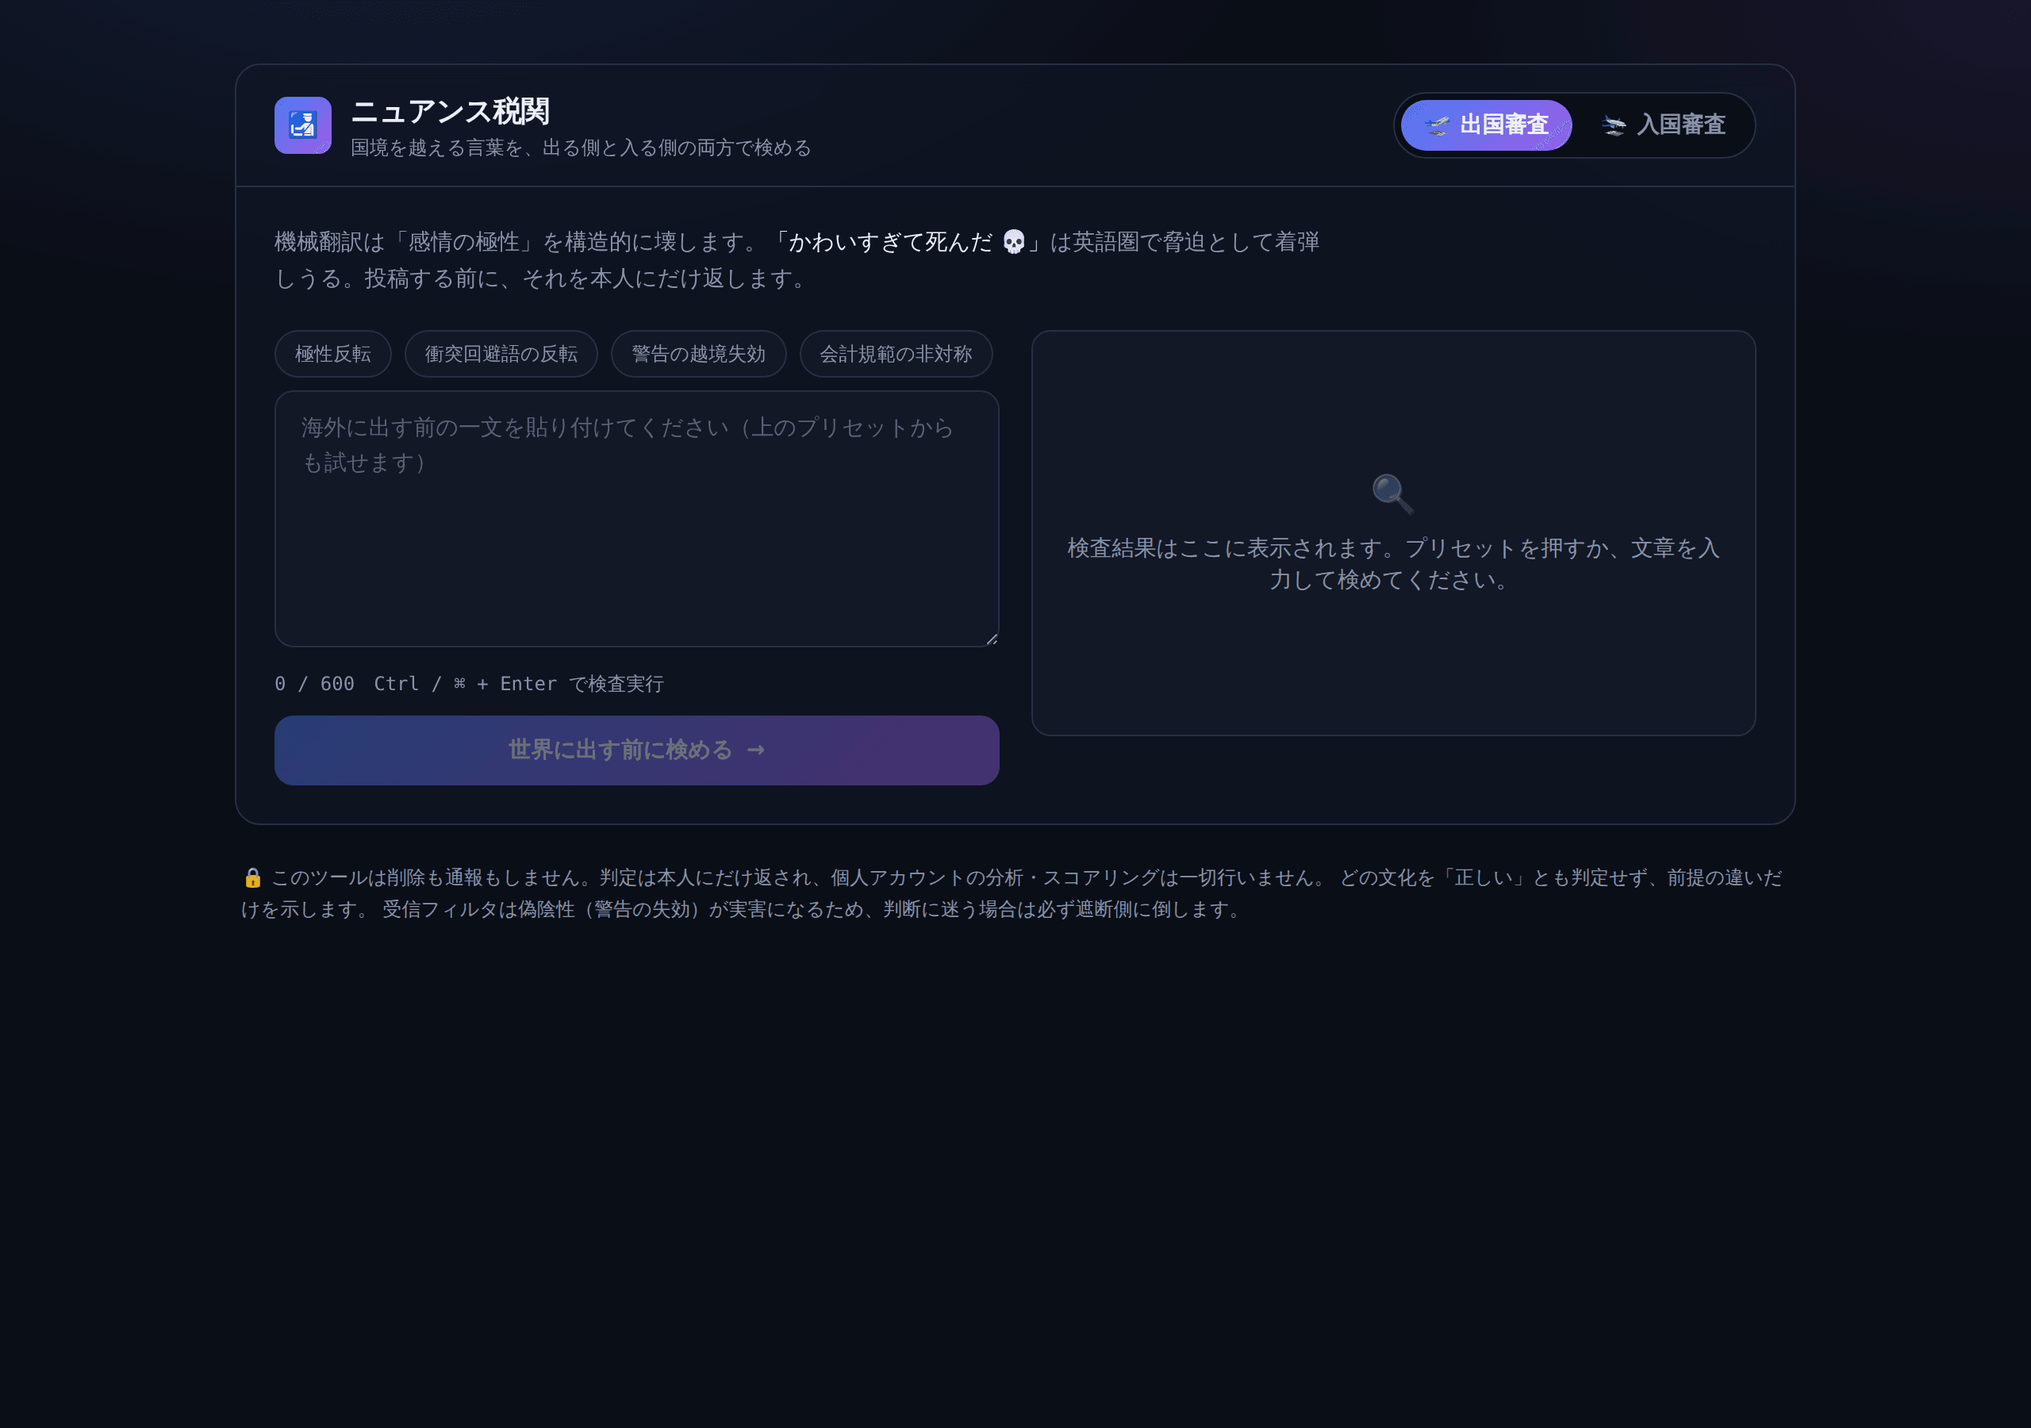
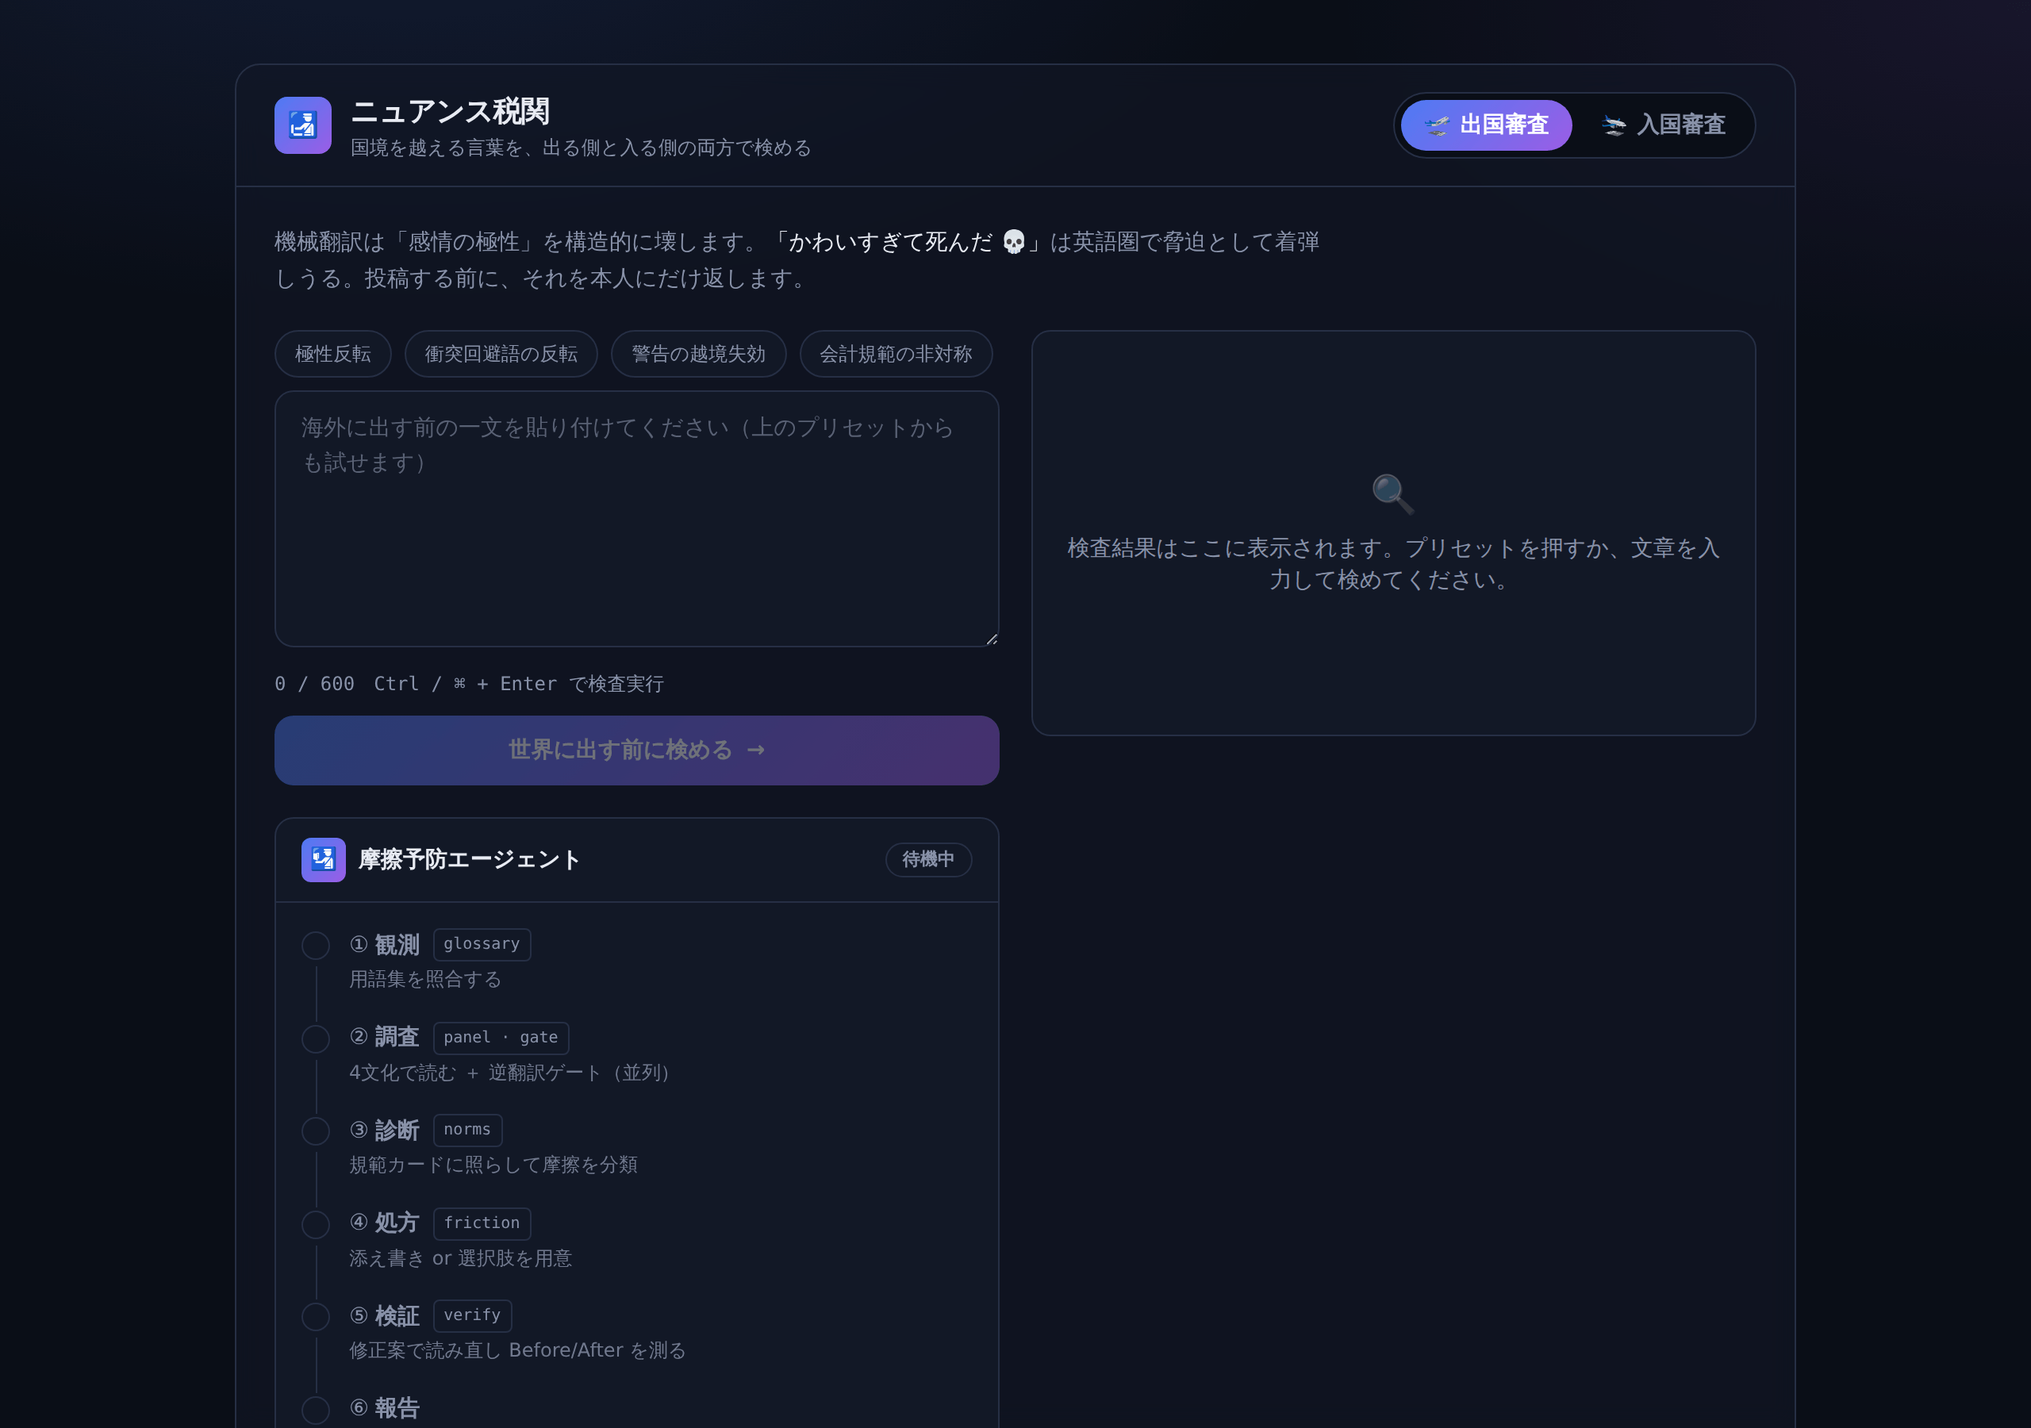
文書：摩擦予防エージェントと、慣習・価値観の摩擦を防ぐ仕組みを説明する
- README: エージェントの6手順、言い方のずれと線引きのずれで防ぎ方が違うこと、設計方針
  （手順の計画は決定的なルール、LLMは部品。助言まで。ループは有界）、検証の読み方を追記。
  構成とテストの一覧、検証状況の表を更新
- docs/THEME.md: 「慣習や価値観の違いが引き起こす摩擦を防止する仕組みへ」の節を追加。
  判定から防ぐ仕組みへ、慣習と価値観で防ぎ方が違うこと、C5「制動」の具体化。
  他の領域（越境EC・インバウンド接客・多文化チーム）への展望は**未実装**と明記し、
  未着手の作業（規範カードの作成とレビュー・分類の見直し・評価データ）を列挙
- .env.example: NUANCE_MODEL_VERIFY と NUANCE_AGENT_VERIFY（コストと遅延の調整）
- docs/screenshots: エージェントの待機・実行中・完了・人への引き渡し・モバイルを追加し、
  既存の画像も撮り直した。グラデーションの縞が出ないよう減色の品質を上げて最適化（合計1.9MB）

過大評価を避けるため、デモ再生は事前に用意した結果で実測ではないこと、検証は同じ検証モデルによる
AI自己検証で人手の検証ではないこと、実モデルでの動作は未検証であることを明記した。

Claude-Session: https://claude.ai/code/session_01D9u8jXMLtdE9s8p8h6Yb9Y

diff --git a/README.md b/README.md
@@ -33,6 +33,60 @@
 **JP同人圏は 8（緑）、EN AO3圏は 88（赤）**。レーダーが一方向に伸びる。
 同じ熱量表現が、受信側の規範によって自傷・危機のサインとして着弾する。
 
+### 摩擦予防エージェント — 判定の下で、エージェントが作業する
+
+![摩擦予防エージェントの完了画面](./docs/screenshots/09-agent-done.png)
+
+出国審査の入力欄の下では、**摩擦予防エージェント**が6つの手順で作業する様子が見える。
+待機中は手順がそのまま製品の説明になり、実行中は実際の呼び出しの進行に合わせて点灯し、
+完了すると Before→After と、人に委ねた判断が並ぶ。
+
+| 手順 | 何をするか |
+|---|---|
+| ① 観測 | 用語集を照合する |
+| ② 調査 | 4文化で読む ＋ 逆翻訳ゲート（**並列**。2本のレーンが進む） |
+| ③ 診断 | 根拠にした規範カードから、摩擦の種類を導く |
+| ④ 処方 | 添え書き、または選択肢を用意する |
+| ⑤ 検証 | 修正案を**別ベンダーのモデル**で読み直し、Before→After を測る |
+| ⑥ 報告 | 線引きのずれは自動で決めず、**人の判断待ちで止まる** |
+
+**摩擦には2種類あり、防ぎ方が違う。**
+
+| | 言い方のずれ（慣習） | 線引きのずれ（価値観） |
+|---|---|---|
+| 例 | 「死んだ」「解釈違い」「地雷」、敬称、語尾、CWの書き方 | 公式への接触、集金・会計、年齢描写、政治・歴史 |
+| 基準 | 語や表記を直せば消える | 行為や題材を変えない限り残る |
+| 防ぎ方 | **添え書き**で橋渡し（原文は変えない＝熱量を落とさない） | 橋渡しできない。**発信者が選ぶ** |
+
+どちらが正しいかは判定しない。選択肢を見えるようにするだけで、決めるのは本人。
+分類は48項目の規範カード（[`lib/norms.ts`](./lib/norms.ts)）に静的に付けてあり、
+**LLMには分類させない**（モデルが返すのは根拠にした規範の番号だけ）。作者の整理で主観が入るため、
+本文と同じ場所に置いて見直せる形にしてある。
+
+![線引きのずれ：人の判断待ちで停止](./docs/screenshots/10-agent-handoff.png)
+
+**エージェントの設計方針（正直な位置づけ）**
+
+- 手順の計画は**決定的なルール**で、LLMは「読む・直す・検証する」部品として使う。
+  LLMが次のツールを自由に選ぶ方式は採っていない（Vercel Hobby の60秒制限、キー無しでは検証できない、
+  「失敗しても安全と言わない」不変条件を保証しにくい、コストが非有界になる）。
+  同じツール群をOpenRouterのtool callingに渡す形が将来の拡張経路（未実装）。
+- 自律性は、何を検証するか・時間切れで省くか・人に渡して止まるかの判断と、**修正案を自分で読み直す自己検証ループ**にある。
+  判断ルールは純関数（[`lib/agent/policy.ts`](./lib/agent/policy.ts)）で、キー無しでテストできる。
+- **エージェントは助言まで**。投稿・削除・通報はしない。添え書きや言い換え案は入力欄へ反映するだけで、
+  再検査は人が押す（人が承認するループ）。
+- ループは有界：検証は上位2文化まで、経過35秒を超えたら始めない、1文化あたり18秒で打ち切る。
+
+**検証の読み方（過大評価を避けるための注意）**
+
+- Before も After も**同じ検証モデル**が読んだ値で、メインの判定（panel）の値ではない。
+  モデルが違うと採点の癖が違い、panel の値と比べると「修正の効果」ではなく「モデルの癖の差」を測ってしまうため。
+- 検証が失敗・時間切れ・無効のときは After を出さず「**未検証**」と報告する（改善を主張しない）。
+  下がらなかった場合も隠さず、そのまま書く。
+- これは**AIによる自己検証**で、人手の検証ではない。
+- デモ再生（APIキー無し）は事前に用意した結果の再生で、実行していない。所要時間・ツール回数は出さず、
+  Before/After は手書きの値で実測ではない、と画面に明記している。
+
 ### 入国審査 — 1対1の対応表では機能しない
 
 ![入国審査のタグ写像](./docs/screenshots/04-filter-result.png)
@@ -199,7 +253,10 @@ cp .env.example .env.local   # OPENROUTER_API_KEY を設定
 |---|---|
 | 文字列一致ベースラインが大半を取りこぼす | **実測済み**（`npm run eval`） |
 | 辞書ベースでは手がかりがゼロのケースがある | **実測済み**（同上） |
-| フェイルセーフ（安全側の既定値）が機能する | **テスト済み**（`npm test` 14件） |
+| フェイルセーフ（安全側の既定値）が機能する | **テスト済み**（`npm test` 100件。重要な不変条件は、わざとバグを入れて落ちることを確認済み） |
+| エージェントの判断（時間切れ・検証失敗で改善を主張しない／線引きで人に渡す） | **テスト済み**（偽の deps で、キー無しで検証） |
+| 実モデルが規範の番号と添え書きを妥当に返す | **未検証**（キー設定後 `npm run eval:live` の「根拠の的中率」で測る） |
+| 別ベンダーの検証モデルの品質・60秒に収まるか | **未検証**（キー設定後に実測が必要） |
 | 実モデルがベースラインを上回る | **未計測**（キー設定後 `npm run eval:live` で1コマンド） |
 | 実運用のファンに効果がある | **未検証**（ユーザーテスト未実施） |
 
@@ -227,6 +284,16 @@ app/
   page.tsx             タブの外枠（出国審査 / 入国審査）
   api/check/route.ts   出国審査API（キーの有無で live/demo を切り替え）
   api/filter/route.ts  入国審査API
+components/agent/      エージェントのコンソール（手順ノード・Before→After・人への引き渡し）
+lib/agent/
+  policy.ts            判断ルール（検証対象・時間予算・人への引き渡し）。純関数
+  run.ts               エージェント本体。deps を注入するので、キー無しで判断をテストできる
+  reducer.ts           画面状態（イベントの畳み込み）。純関数
+  ndjson.ts            ストリームの読み書き（チャンク境界で行が割れても読める）
+  demo.ts              デモ再生（APIキー無し。事前に用意した結果）
+  live.ts              本番の配線（LLM 呼び出し）
+app/api/agent/         NDJSON で進捗を流すAPI（/api/check は eval とフォールバック用に残す）
+lib/friction.ts        摩擦の分類（根拠の規範番号の検証・種別の導出・添え書きの正規化）。純関数
 eval/
   cases.check.ts       出国審査のゴールドセット20件（対照群4件を含む）
   cases.filter.ts      入国審査のゴールドセット8件
@@ -234,7 +301,11 @@ eval/
   score.ts             採点ロジック（純関数）
   run.ts               評価ランナー（npm run eval / eval:live）
 tests/
-  safety.test.ts       決定的ロジックのユニットテスト14件（APIキー不要）
+  safety.test.ts       フェイルセーフ・サニタイザ・レート制限など（APIキー不要）
+  friction.test.ts     摩擦の分類。規範の番号がずれたら落ちるアンカーテストを含む
+  agent.test.ts        エージェントの判断・NDJSON・reducer（偽の deps で、LLM を呼ばない）
+  agent-demo.test.ts   デモの手書きデータが、判断ルールと規範本文に整合していること
+  eval-score.test.ts   評価の採点ロジック（根拠の的中は合否を変えない）
 scripts/
   screenshot.mjs       UIスクショの撮影（npm run shots）。手撮りだと解像度と手順がぶれるため固定
 docs/

diff --git a/docs/THEME.md b/docs/THEME.md
@@ -108,7 +108,56 @@ C5「制動」を強化するツールは、設計を誤ると容易に検閲装
 
 ---
 
-## 5. 2つのゲートを通った唯一の領域
+## 5. 慣習と価値観の摩擦を防ぐ仕組みへ
+
+レビューで「将来は、慣習や価値観の違いが引き起こす摩擦を防止する仕組みに発展しうる」と指摘された。
+その最初の形を、出国審査の入力欄の下（**摩擦予防エージェント**）に実装した。
+
+### 判定から「防ぐ仕組み」へ
+
+これまでの判定は「危ない」と言うだけで、**なぜ擦れるのか、どう防ぐのか**を言えていなかった。
+エージェントは判定を、次の流れに分解する。
+
+```
+なぜ擦れるか   → 根拠にした規範カード（どの慣習・価値観が衝突したか）
+どんな擦れか   → 言い方のずれ ／ 線引きのずれ
+どう防ぐか     → 添え書き（橋渡し）／ 選択肢（人が選ぶ）→ 修正案を自分で読み直して検証
+```
+
+### 慣習と価値観では、防ぎ方が違う
+
+| | 言い方のずれ（慣習） | 線引きのずれ（価値観） |
+|---|---|---|
+| 中身 | 語・表記・語尾・敬称・警告の書き方 | 行為・題材そのものの線引き |
+| 基準 | 語や表記を直せば消える | 行為や題材を変えない限り残る |
+| 防ぎ方 | 原文を変えずに**添え書き**で橋渡し | 橋渡しできない。**発信者が選ぶ** |
+| エージェントの振る舞い | 添え書きを提案し、検証する | 自動で決めず、人の判断待ちで止まる |
+
+この区別が、テーマの「**無血**」に対する具体的な答えになっている。
+誤訳による有血化（言い方のずれ）は、添え書きで防げる。
+一方で価値観の線引きは、機械が決めてよいものではない。**選択肢を見えるようにして、決めるのは本人に返す**。
+どちらが正しいかは判定しない。
+
+### C5「制動」の具体化
+
+[動員の5条件](./ideas/agents/05-nonviolent-mobilization.md)のうち、国境で壊れるのは C4 橋と C5 制動だった。
+C5 は「自分の行為が加害だと認識できる限りにおいて」機能するブレーキである。
+エージェントは、**見えない加害を、発信前に認識できる形にする**ことで、ブレーキを踏めるようにする。
+動員を起こすのではなく、動員の前提条件を整えるインフラに徹する立場は変わらない。
+
+### 他の領域への展望（未実装）
+
+構造は「規範カード → 摩擦の種類 → 防ぎ方」で、規範カードを差し替えれば、
+越境ECの商習慣、インバウンド接客、多文化チームのコミュニケーションにも広げられる**可能性がある**。
+ただし以下は未着手で、この展望の根拠はまだ設計上のものに留まる。
+
+- 各領域の規範カードの作成と、当事者・専門家によるレビュー（競争力の実体は、このカードという知識資産）
+- 「言い方／線引き」の分類の見直し。現状の48項目の分類は作者の整理で、主観が入る
+- 各領域での評価データ
+
+---
+
+## 6. 2つのゲートを通った唯一の領域
 
 [選定過程](./ideas/README.md)では、評価軸を5回改訂し、最後に2つのゲートを課した。
 
@@ -147,7 +196,7 @@ C5「制動」を強化するツールは、設計を誤ると容易に検閲装
 
 ---
 
-## 6. 主張の検証状況
+## 7. 主張の検証状況
 
 誠実に区別しておく。
 
@@ -155,9 +204,14 @@ C5「制動」を強化するツールは、設計を誤ると容易に検閲装
 |---|---|
 | 文字列一致ベースラインが大半を取りこぼす | **実測済み**（`npm run eval`、APIキー不要で再現可能） |
 | 辞書ベースでは手がかりがゼロになるケースがある | **実測済み**（同上） |
-| 安全側フェイルセーフが機能する | **テスト済み**（`npm test`、14件） |
+| 安全側フェイルセーフが機能する | **テスト済み**（`npm test`、100件） |
+| エージェントの判断（時間切れ・検証失敗で改善を主張しない／線引きで人に渡す） | **テスト済み**（偽の deps で、キー無しで検証。重要な不変条件は、わざとバグを入れて落ちることを確認済み） |
+| 実画面でエージェントが動き、操作できる | **確認済み**（デモ再生。実ブラウザで、エラー表示・二重送信防止・入力欄への反映・再検査が自動で走らないこと） |
+| 実モデルが規範の番号と添え書きを妥当に返す | **未検証**（キー設定後 `npm run eval:live` の「根拠の的中率」で測る） |
+| 別ベンダーの検証モデルの品質、60秒に収まるか | **未検証**（キー設定後に実測が必要） |
 | 実モデルがベースラインを上回る | **未計測**（`OPENROUTER_API_KEY` 設定後に `npm run eval:live`） |
 | 実運用のファンに効果がある | **未検証**（ユーザーテスト未実施） |
 
-3行目までは今すぐ再現できる。4行目はキーがあれば1コマンドで埋まる。
-5行目は本来ハッカソンの範囲を超えるが、埋まっていないことは明示しておく。
+上の「実測済み」「テスト済み」「確認済み」は今すぐ再現できる。「未計測」「未検証」のうち、実モデルに依存するものは
+キーがあれば `npm run eval:live` で埋まる。実運用のファンへの効果は本来ハッカソンの範囲を超えるが、
+埋まっていないことは明示しておく。
